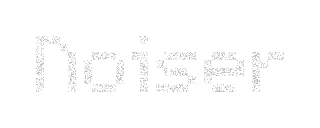
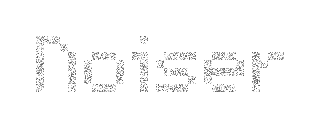
Noisier

diff --git a/src/ui/editors/noiser.cpp b/src/ui/editors/noiser.cpp
@@ -43,7 +43,8 @@ Noiser::Noiser()
     p_noiseTypeCombo->setSelectedId(1);
 
     p_opacitySlider->setRange(0.0, 1.0, 0.01);
-    p_frequencySlider->setRange(0.0, 100.0, 0.1);
+    p_frequencySlider->setRange(0.0, 100.0, 0.01);
+    p_frequencySlider->setSkewFactorFromMidPoint(10.0);
     p_seedSlider->setRange(0.0, 10'000.0, 1.0);
 
     auto forceUpdateCb{ [this]()
